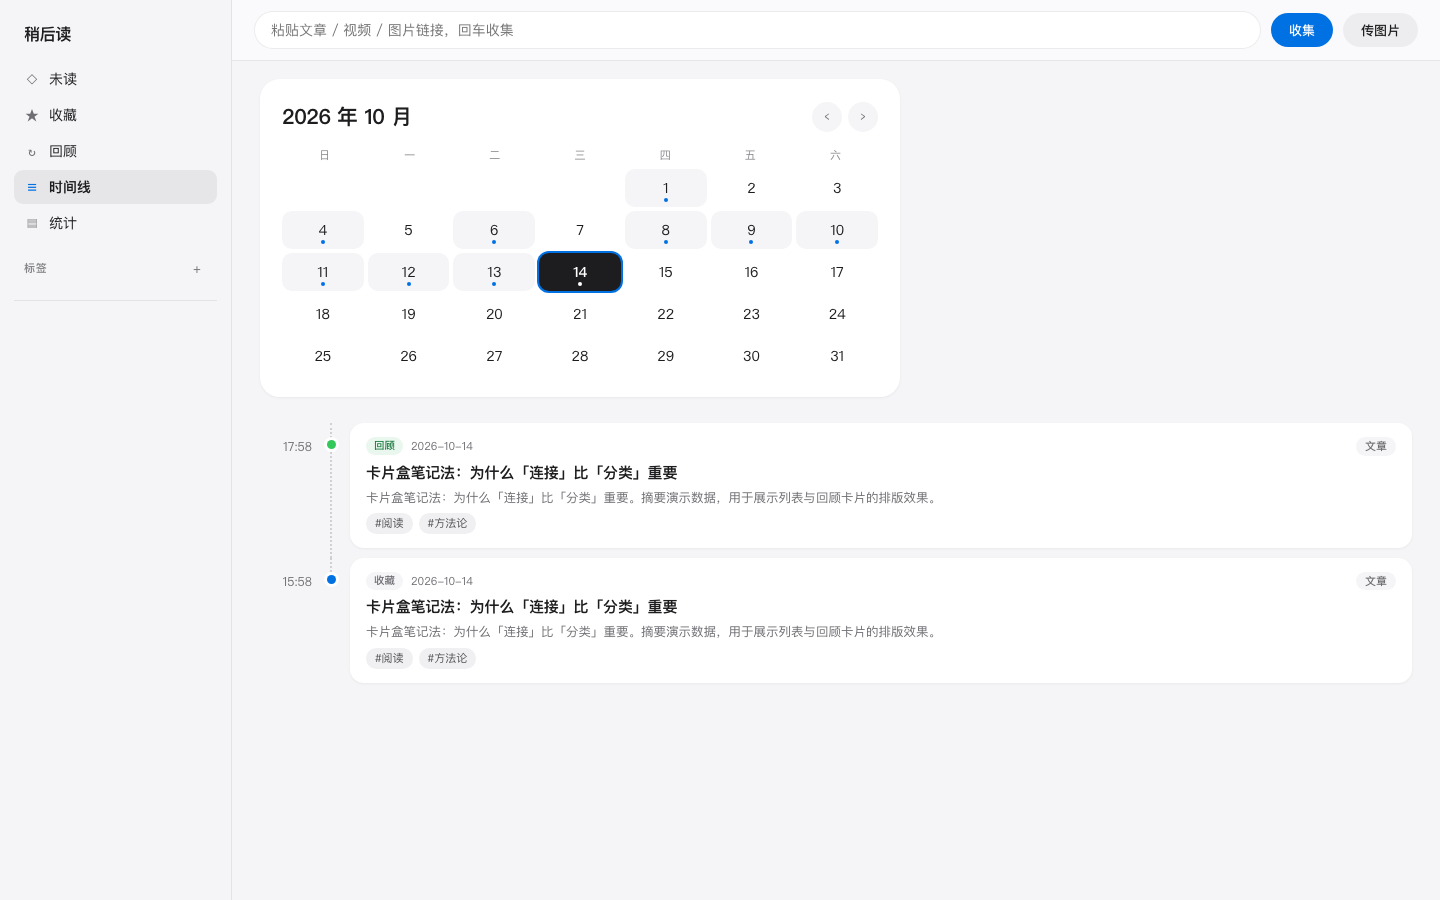
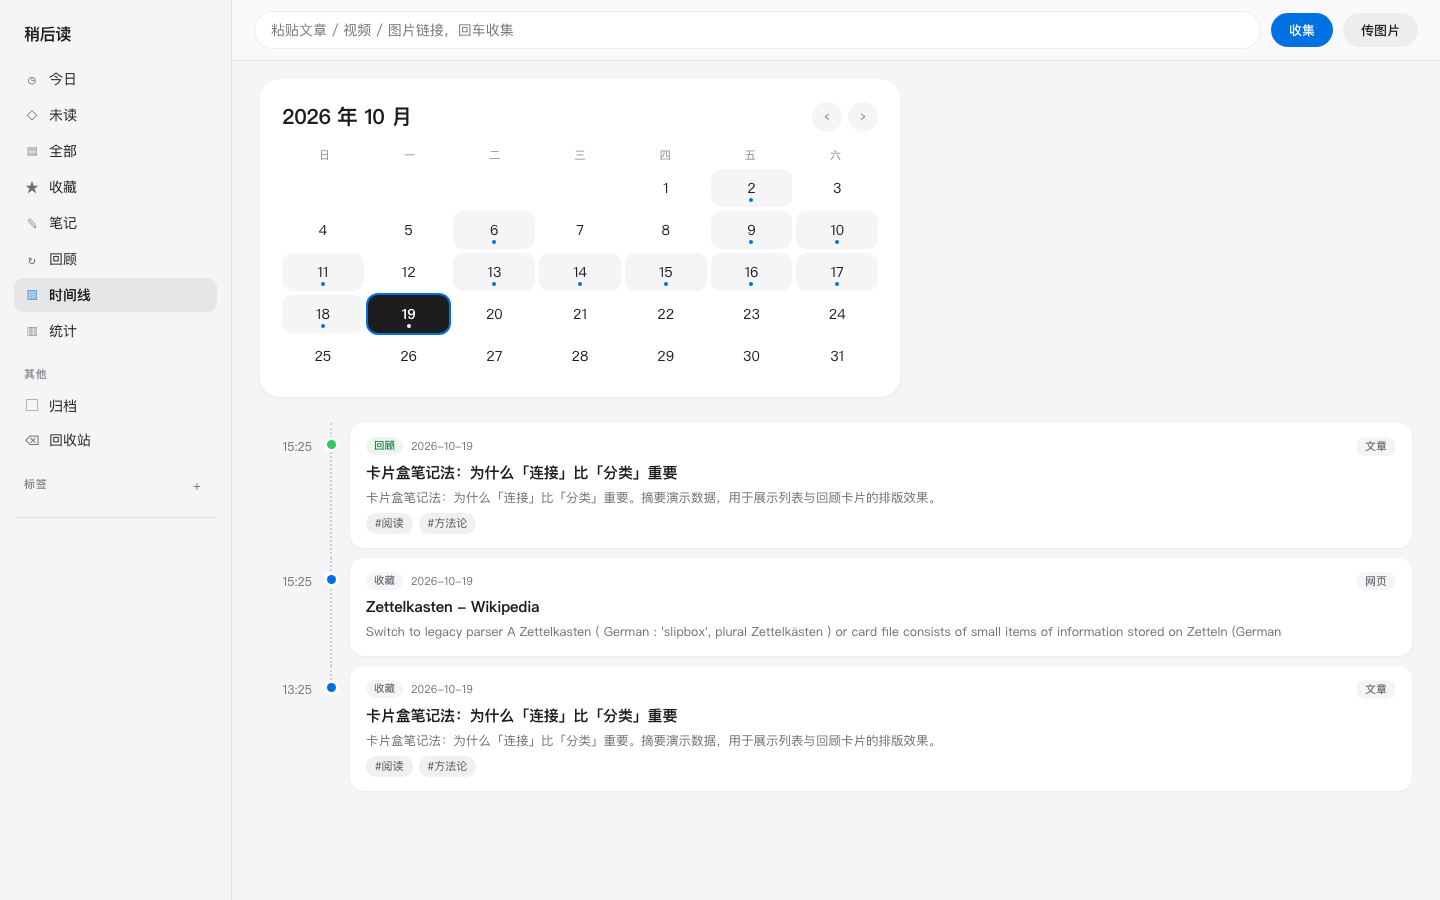
docs: 新侧栏与卡片操作截图，README 补充组织能力说明

diff --git a/README.md b/README.md
@@ -30,6 +30,9 @@ ReadLater 只做三件事：
 ## 功能
 
 - **收件通道**：界面粘贴框 / 浏览器书签（Bookmarklet）/ iOS 快捷指令 / 图片上传
+- **组织**：侧栏带实时计数——今日 / 未读 / 全部 / 收藏 / 笔记 / 归档 / 回收站；条目可**置顶**（排序优先）
+- **安全删除**：删除 = **移入回收站**（保留正文与配图），可逐条恢复或清空；与「归档」（处理完沉底、不占主列表）区分
+- **笔记聚合**：「笔记」视图汇总所有写过想法的条目，不必逐条翻找
 - **全文缓存**：公众号文章正文 + 配图本地转存，**原文被删也能读**；URL 去重；抓取失败仍保住链接
 - **每日回顾**：三档间隔排期（快看 7 天 / 还行 14 天 / 已熟 28 天，间隔随曝光次数拉长），★ 收藏优先重现，连续天数统计
 - **时间线**：月历选日期（有记录的日期带标记），下方按时间轴看当天的收藏 / 已读 / 回顾记录
@@ -108,7 +111,7 @@ readlater/
 
 ## 已验证 / 待实测
 
-**已验证（本机实测）**：收集入库、URL 去重、外网文章解析（直连失败自动代理兜底）、微信解析器结构测试、图片上传、标记已读、标签增删改（改名同步全部条目 / 删除剥离）、收藏筛选、8 路并发写入（SQLite WAL 下全部通过）、每日回顾排期与连续天数、时间线月历与事件流、`install.sh` 一键建环境 + `run.sh` 启动（macOS 实测）。
+**已验证（本机实测）**：收集入库、URL 去重、外网文章解析（直连失败自动代理兜底）、微信解析器结构测试、图片上传、标记已读、标签增删改（改名同步全部条目 / 删除剥离）、收藏筛选、**软删除 → 回收站 → 恢复 / 清空全链路**、归档与取消归档、条目置顶排序、今日与笔记筛选、侧栏计数一致性、8 路并发写入（SQLite WAL 下全部通过）、每日回顾排期与连续天数、时间线月历与事件流、`install.sh` 一键建环境 + `run.sh` 启动（macOS 实测）。
 
 **待实测**：**Docker 部署**（Dockerfile 已提供但本机无 Docker 环境，未经实测）；微信公众号文章的线上解析（逻辑按公开页面结构实现，需真实文章链接验证；个别防爬文章会降级为「仅存链接」）；iOS 快捷指令与订阅号收件通道。
 
